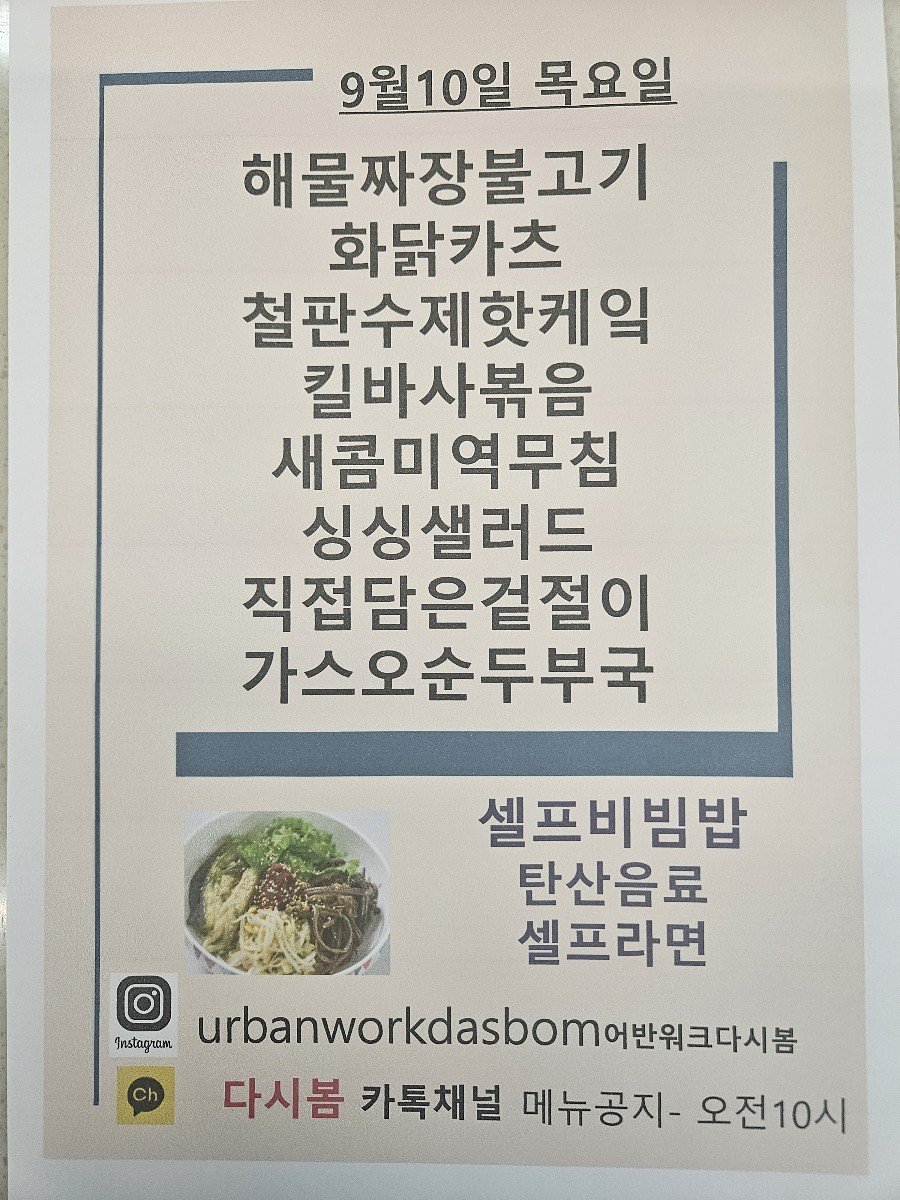
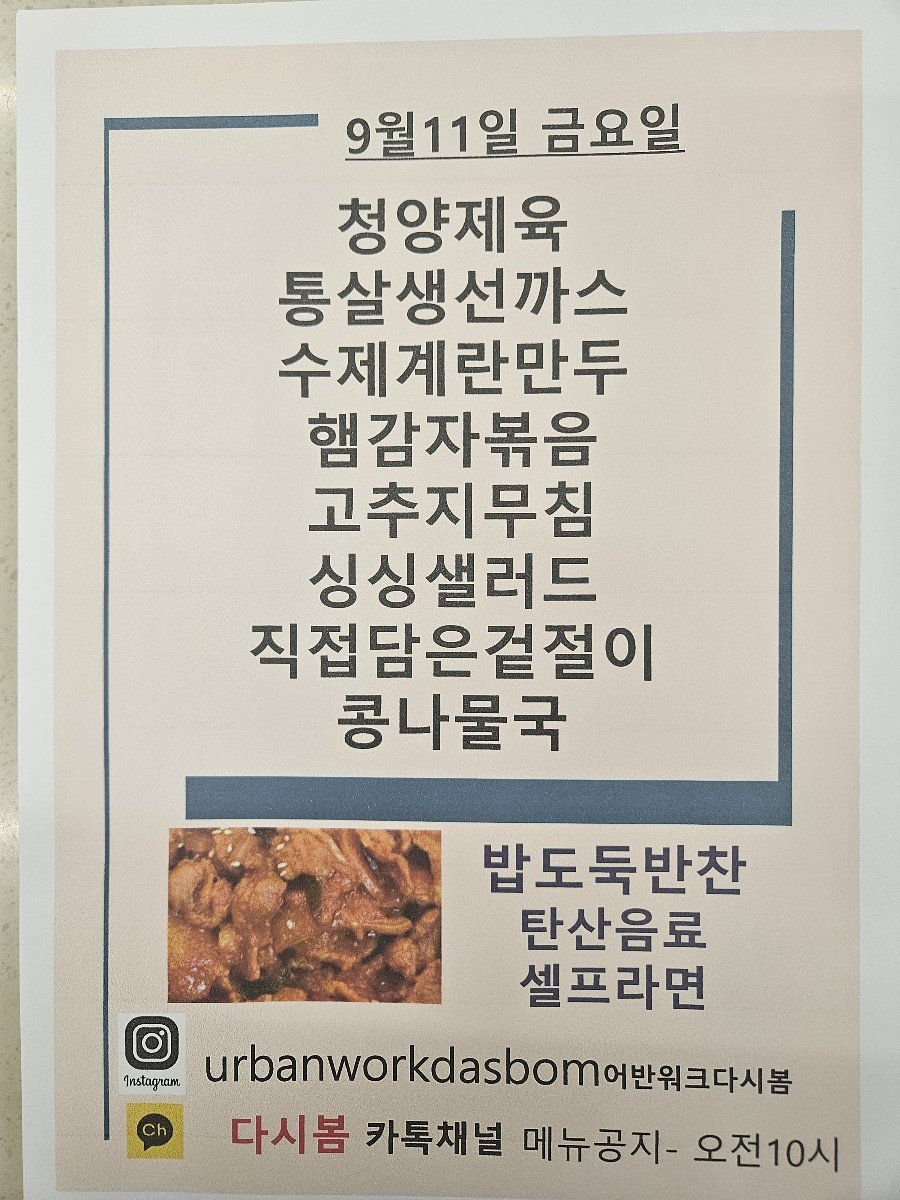
Update menu board assets

diff --git a/menu-today/index.html b/menu-today/index.html
@@ -209,7 +209,7 @@
 
     <section class="meta-bar">
       <div class="meta-card"><div class="meta-label">기준 날짜</div><div class="meta-value">2026년 9월 11일 금요일</div></div>
-      <div class="meta-card"><div class="meta-label">최종 가져온 시간</div><div class="meta-value">2026-09-11 09:33:08</div></div>
+      <div class="meta-card"><div class="meta-label">최종 가져온 시간</div><div class="meta-value">2026-09-11 09:47:52</div></div>
       <div class="meta-card"><div class="meta-label">확인 완료</div><div class="meta-value">9개 식당</div></div>
       <div class="meta-card"><div class="meta-label">준비중</div><div class="meta-value">3개 채널</div></div>
     </section>
@@ -235,7 +235,7 @@
             <div class="sub">가산 어반워크</div>
           </div>
         </div>
-        <div class="menu-inline-image"><img src="./images/dasibom.png" alt="다시 봄 식단 이미지"></div><ul><li>{ 장타 {</li><li>철판수제핫케익</li><li>새콤미역무침</li><li>싱싱샐러드</li><li>해물짜장</li></ul>
+        <div class="menu-inline-image"><img src="./images/dasibom.png" alt="다시 봄 식단 이미지"></div><ul><li>청양제육</li><li>통살생선까스</li><li>수제계란만두</li><li>햄감자볶음</li><li>고주지무침</li><li>싱싱샐러드</li><li>직접담은겉절이</li><li>콩나물국</li><li>고추지무침</li><li>타사으</li></ul>
       </article>
 
       <article class="restaurant-card">

diff --git a/guro-menu/index.html b/guro-menu/index.html
@@ -32,7 +32,7 @@
   </header>
   <section class="meta">
     <div><small>기준 날짜</small><strong>2026년 9월 11일 금요일</strong></div>
-    <div><small>최종 갱신</small><strong>2026-09-11 09:33:20</strong></div>
+    <div><small>최종 갱신</small><strong>2026-09-11 09:48:08</strong></div>
     <div><small>등록 식당</small><strong>5개</strong></div>
   </section>
   <div class="notice">공개 카카오 채널의 메뉴 이미지를 자동 수집하고 OCR로 정리합니다. 텍스트에 오타가 있을 수 있으니 식단 이미지를 함께 확인해 주세요.</div>
